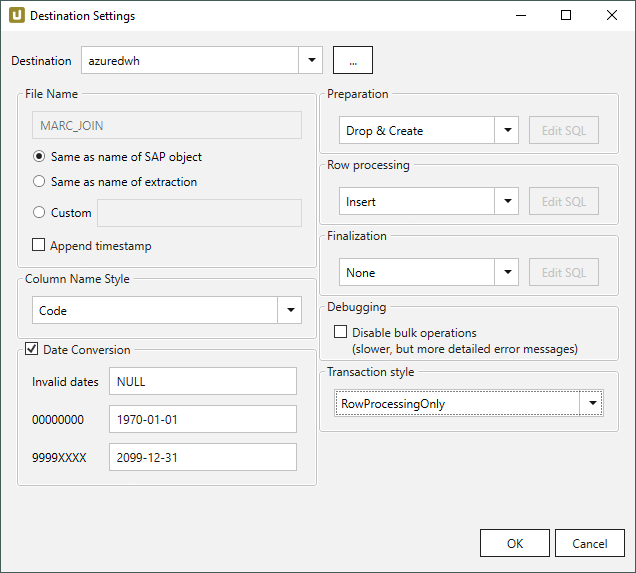
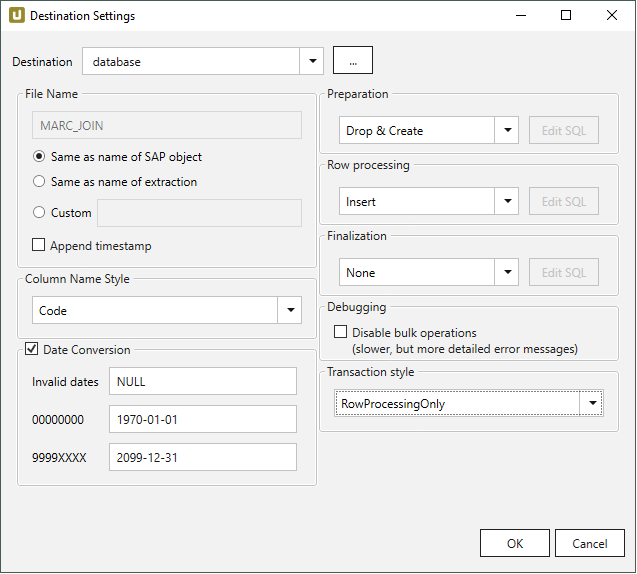
Azure DWH wird zu Azure Synapse Analytics (SQL pool)

diff --git a/content/_en/xtract-universal/xu-destinations/azure-synapse-analytics/requirements.md b/content/_en/xtract-universal/xu-destinations/azure-synapse-analytics/requirements.md
@@ -1,17 +1,17 @@
 ---
-ref: xu-azure-dwh-01
+ref: xu-azure-synapse-analytics-01
 layout: page
 title: Requirements
 description: Requirements
 product: xtract-universal
-parent: azure-dwh
+parent: azure-synapse-analytics
 permalink: /:collection/:path
 weight: 1
 lang: en_GB
 old_url: /Xtract-Universal-EN/default.aspx?pageid=requirements5
 ---
 
-As a prerequisite for using this destination you have defined a Microsoft Azure SQL Data Warehouse. You have also changed the firewall settings in the Azure portal as to grant access for the IP addresses Xtract Universal is running on. 
+As a prerequisite for using this destination you must have defined a Microsoft Azure Synapse Analytics SQL pool. The firewall settings in the Azure portal must be set to grant access for the IP addresses Xtract Universal is running on. 
 
 ![XU_AzureDWH_Setup_EN](/img/content/XU_AzureDWH_Setup_EN.png){:class="img-responsive"}
 

diff --git a/content/_en/xtract-universal/xu-destinations/azure-synapse-analytics.md b/content/_en/xtract-universal/xu-destinations/azure-synapse-analytics.md
@@ -1,11 +1,11 @@
 ---
 ref: xu-destinations-25
 layout: page
-title: Azure DWH
-description: Azure DWH
+title: Azure Synapse Analytics (SQL pool)
+description: Azure Synapse Analytics (SQL pool)
 product: xtract-universal
 parent: xu-destinations
-childidentifier: azure-dwh
+childidentifier: azure-synapse-analytics
 permalink: /:collection/:path
 weight: 25
 lang: en_GB
@@ -13,6 +13,6 @@ old_url: /Xtract-Universal-EN/default.aspx?pageid=azure_dwh
 progressstate: 5
 ---
 
-The following section describes the loading of the SAP extraction data to an Azure Data warehouse.
+The following section describes the loading of the SAP extraction data to Azure Synapse Analytics (SQL pool).
 
 {% include _content/table-of-contents.html parent=page.childidentifier collection=site.en %}

diff --git a/_includes/_content/en/xu-specific/advanced-techniques/delta-processing.md b/_includes/_content/en/xu-specific/advanced-techniques/delta-processing.md
@@ -14,7 +14,7 @@ For delta processing it is advisable to use a database on the destination side.
 
 ### Database destinations
 - [Amazon Redshift](../xu-destinations/amazon-redshift/merging-data) 
-- [Azure Synapse Analytics ](../xu-destinations/azure-dwh/merging-data) (former Azure DWH)
+- [Azure Synapse Analytics ](../xu-destinations/azure-synapse-analytics/merging-data)
 - [Azure SQL Database](../xu-destinations/microsoft-sql-server/merging-data) 
 - [EXASolution](../xu-destinations/exasol/merging-data) 
 - [IBM DB2](../xu-destinations/ibm-db2/merging-data) 

diff --git a/_includes/_content/de/xu-specific/fortgeschrittene-techniken/delta-processing.md b/_includes/_content/de/xu-specific/fortgeschrittene-techniken/delta-processing.md
@@ -13,7 +13,7 @@ Für Deltaverarbeitung ist es ratsam auf der Destinationsseite eine Datenbank zu
 
 ### Datenbank Destinationen
 - [Amazon Redshift](../xu-destinationen/redshift/daten-mergen) 
-- [Azure DWH](../xu-destinationen/azure_dwh/daten-mergen) 
+- [Azure Synapse Analytics (SQl pool)](../xu-destinationen/azure_dwh/daten-mergen) 
 - [Azure SQL Database](../xu-destinationen/microsoft-sql-server/daten-mergen) 
 - [EXASolution](../xu-destinationen/exasol/daten-mergen) 
 - [IBM DB2](../xu-destinationen/ibm-db2/daten-mergen) 

diff --git a/content/_en/xtract-universal/xu-destinations/azure-synapse-analytics/connection.md b/content/_en/xtract-universal/xu-destinations/azure-synapse-analytics/connection.md
@@ -1,10 +1,10 @@
 ---
-ref: xu-azure-dwh-02
+ref: xu-azure-synapse-analytics-02
 layout: page
 title: Connection
 description: Connections
 product: xtract-universal
-parent: azure-dwh
+parent: azure-synapse-analytics
 permalink: /:collection/:path
 weight: 2
 lang: en_GB
@@ -27,7 +27,7 @@ Defines the user name.
 Defines the password.
 
 **Database Name**<br>
-Defines the name of the Azure DWH.
+Defines the name of the Azure Synapse Analytics (SQl pool).
             
 **Test Connection**<br>
 Checks the database connection. 

diff --git a/content/_de/xtract-universal/xu-destinationen/azure-synapse-analytics/verbindung5.md b/content/_de/xtract-universal/xu-destinationen/azure-synapse-analytics/verbindung5.md
@@ -1,5 +1,5 @@
 ---
-ref: xu-azure-dwh-02
+ref: xu-azure-synapse-analytics-02
 layout: page
 title: Verbindung
 description: Verbindung
@@ -30,4 +30,4 @@ Passwort des Datenbanknutzers.
 Name der Datenbank.
              
 **Test Connection**<br>
-Klicken Sie auf die Schaltfläche, um die Verbindung zum Azure DWH zu testen. 
+Klicken Sie auf die Schaltfläche, um die Verbindung zu Azure Synapse Analytics (SQl pool) zu testen. 

diff --git a/content/_en/xtract-universal/destinations.md b/content/_en/xtract-universal/destinations.md
@@ -20,7 +20,7 @@ The following destinations are available:
 ### Databases / Data Warehouses
 
 - [Amazon Redshift](./xu-destinations/amazon-redshift) 
-- [Azure DWH](./xu-destinations/azure-dwh)
+- [Azure Synapse Analytics (SQl pool)](./xu-destinations/azure-synapse-analytics)
 - [Azure SQL Database](./xu-destinations/microsoft-sql-server) 
 - [EXASolution](./xu-destinations/exasol) 
 - [IBM DB2](./xu-destinations/ibm-db2) 

diff --git a/content/_de/xtract-universal/xu-destinationen.md b/content/_de/xtract-universal/xu-destinationen.md
@@ -19,7 +19,7 @@ Die folgenden Zielumgebungen sind verfügbar:
 ### Datenbanken / Data Warehouses
 
 - [Amazon Redshift](./xu-destinationen/redshift) 
-- [Azure DWH](./xu-destinationen/azure_dwh) 
+- [Azure Synapse Analytics (SQl pool)](./xu-destinationen/azure_dwh) 
 - [Azure SQL Database](./xu-destinationen/microsoft-sql-server) 
 - [EXASolution](./xu-destinationen/exasol) 
 - [IBM DB2](./xu-destinationen/ibm-db2) 

diff --git a/content/_en/xtract-universal/xu-destinations/azure-synapse-analytics/merging-data.md b/content/_en/xtract-universal/xu-destinations/azure-synapse-analytics/merging-data.md
@@ -1,10 +1,10 @@
 ---
-ref: xu-azure-dwh-05
+ref: xu-azure-synapse-analytics-05
 layout: page
 title: Merging Data
 description: Merging Data
 product: xtract-universal
-parent: azure-dwh
+parent: azure-synapse-analytics
 permalink: /:collection/:path
 weight: 5
 lang: en_GB

diff --git a/content/_de/xtract-universal/xu-destinationen/azure-synapse-analytics.md b/content/_de/xtract-universal/xu-destinationen/azure-synapse-analytics.md
@@ -1,8 +1,8 @@
 ---
 ref: xu-destinations-25
 layout: page
-title: Azure DWH
-description: Azure DWH
+title: Azure Synapse Analytics (SQl pool)
+description: Azure Synapse Analytics (SQl pool)
 product: xtract-universal
 parent: xu-destinationen
 childidentifier: azure_dwh

diff --git a/content/_en/xtract-universal/xu-destinations/azure-synapse-analytics/settings.md b/content/_en/xtract-universal/xu-destinations/azure-synapse-analytics/settings.md
@@ -1,10 +1,10 @@
 ---
-ref: xu-azure-dwh-03
+ref: xu-azure-synapse-analytics-03
 layout: page
 title: Settings
 description: Settings
 product: xtract-universal
-parent: azure-dwh
+parent: azure-synapse-analytics
 permalink: /:collection/:path
 weight: 3
 lang: en_GB

diff --git a/content/_de/xtract-universal/xu-destinationen/azure-synapse-analytics/daten-mergen.md b/content/_de/xtract-universal/xu-destinationen/azure-synapse-analytics/daten-mergen.md
@@ -1,5 +1,5 @@
 ---
-ref: xu-azure-dwh-05
+ref: xu-azure-synapse-analytics-05
 layout: page
 title: Daten zusammenführen (mergen)
 description: Daten mergen
